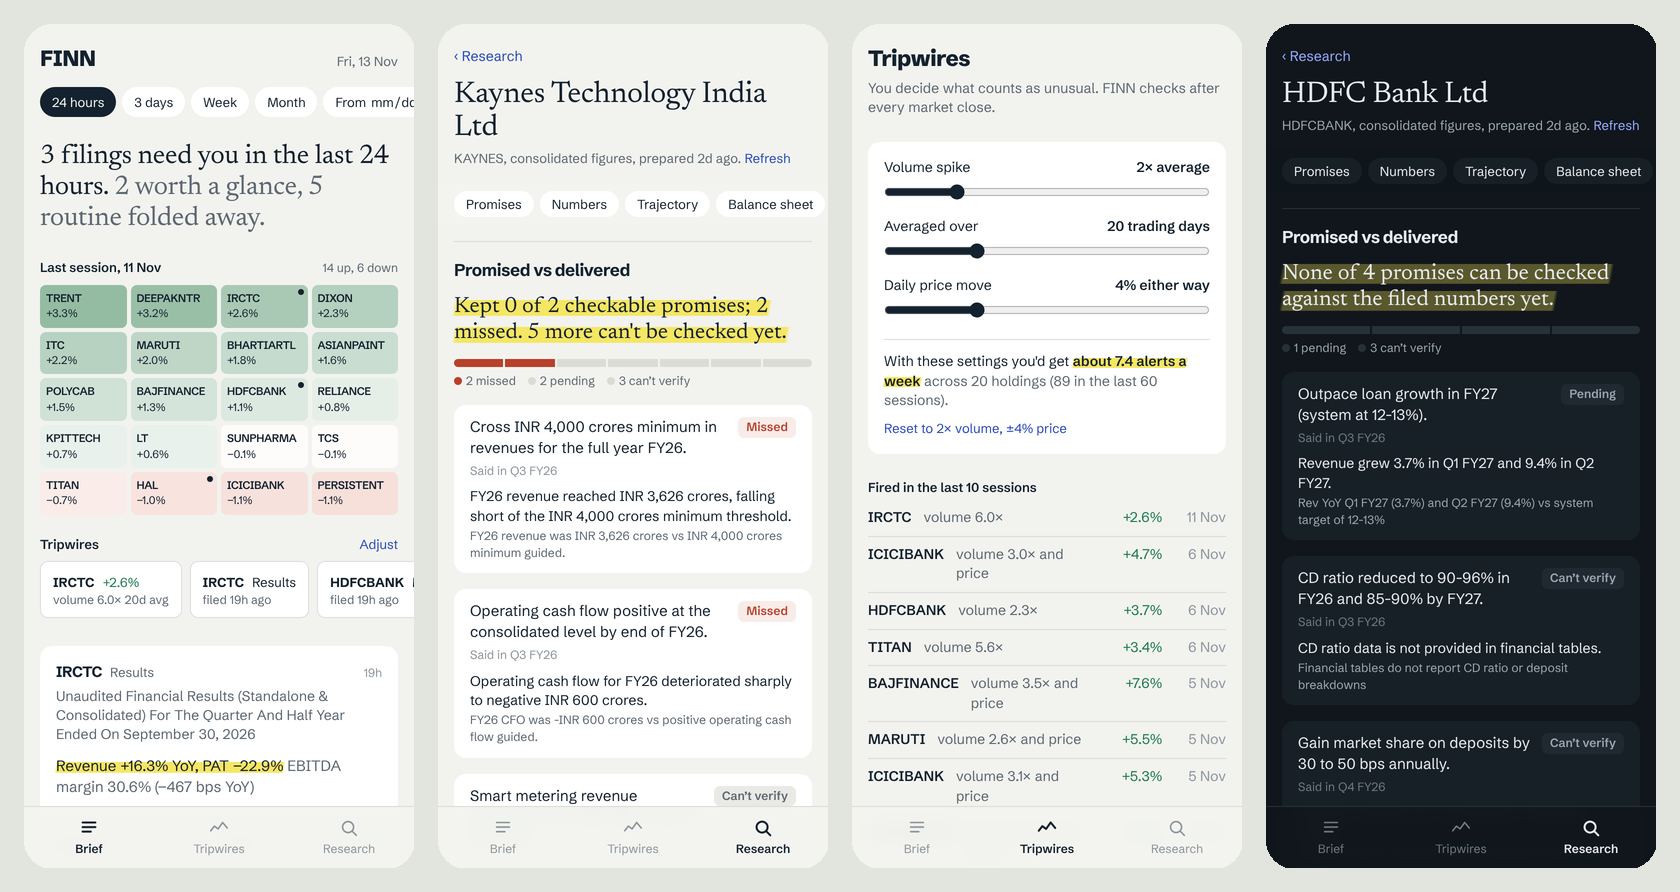
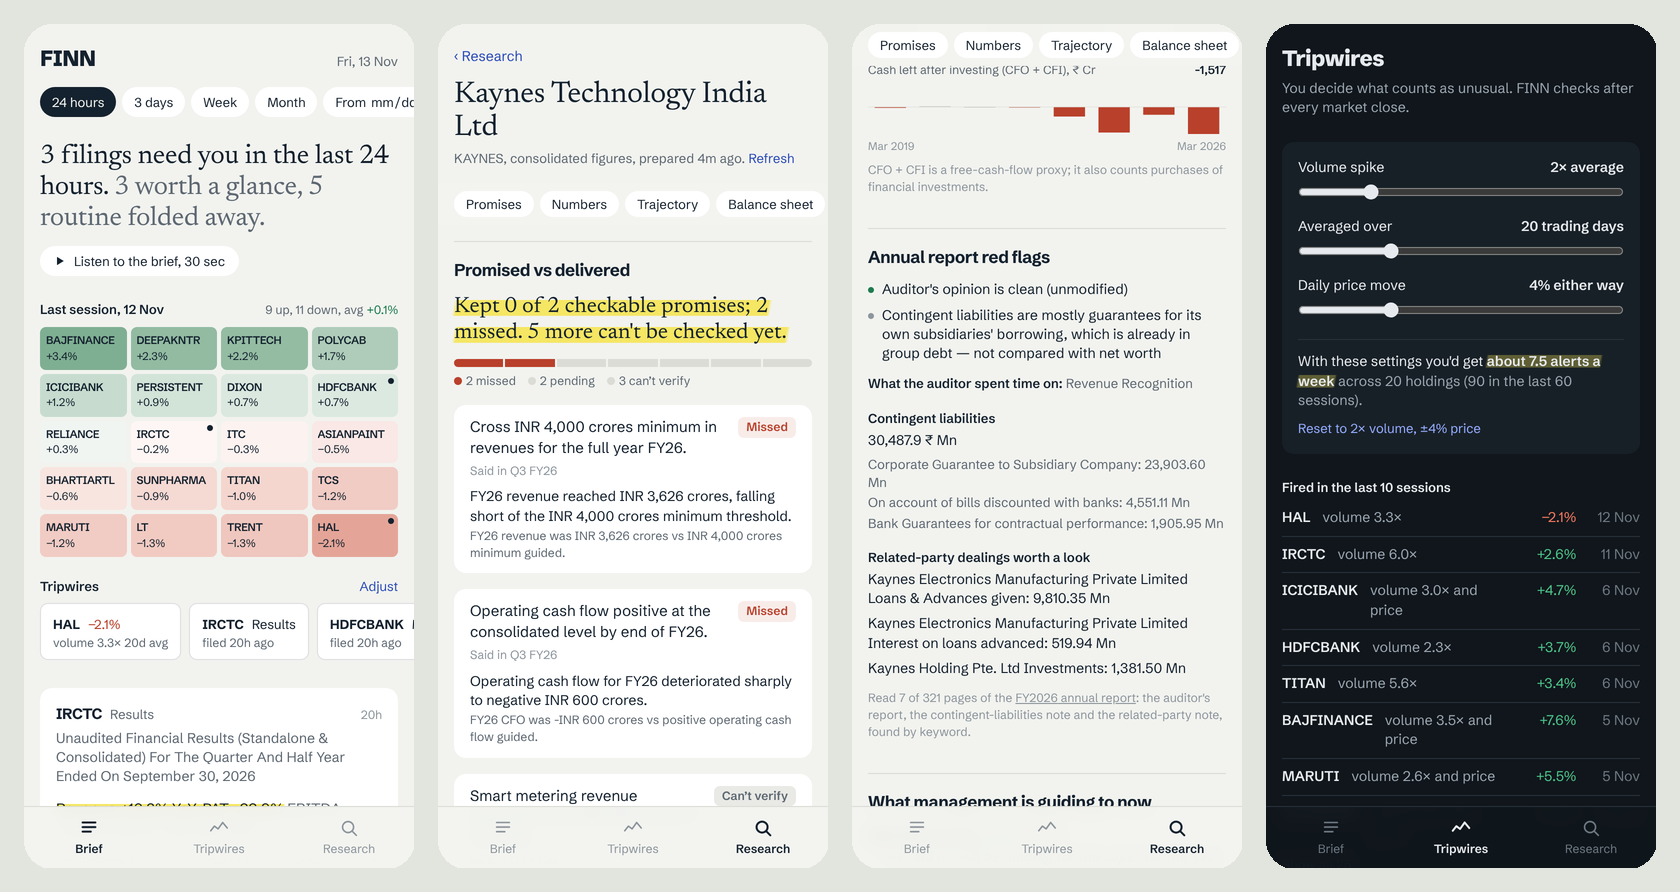
Prices: merge into stored history (Yahoo blanks recent sessions); docs, QR, screenshots
- refreshes never drop a bar already saved; stale holdings are skipped by the
  pulse and tripwires and reported by the run; two lost 12 Nov bars restored
- README: QR code, annual-report and Listen features, new screenshots
- DECISIONS and BUILD_HISTORY updated for 13 Nov

Claude-Session: https://claude.ai/code/session_01DtSqmdncMNEDbTmuAnibWR

diff --git a/scripts/pipeline.ts b/scripts/pipeline.ts
@@ -17,7 +17,7 @@ import { setCacheStore, cache } from "../src/lib/cache";
 import { llmAvailable, newUsage, MODELS } from "../src/lib/llm";
 import { mapLimit, sleep } from "../src/lib/http";
 import { pdfText } from "../src/lib/pdf";
-import { fetchEod } from "../src/lib/push/prices";
+import { fetchEod, mergeSeries } from "../src/lib/push/prices";
 import { attachmentUrls, fetchAnnouncements, istToIso, type BseAnnouncement } from "../src/lib/push/bse";
 import { llmClassify, ruleClassify, scorePriority, tierOf } from "../src/lib/push/classify";
 import { cardFromScreener, extractResults, reconcile } from "../src/lib/push/results";
@@ -57,13 +57,24 @@ async function main() {
 
   // 1. Prices
   const prices: Prices = { generatedAt: new Date().toISOString(), series: {} };
+  let stored: Prices | null = null;
+  try {
+    stored = JSON.parse(fs.readFileSync(path.join(OUT, "prices.json"), "utf8"));
+    if (stored?.sample) stored = null;
+  } catch {}
   await mapLimit(PORTFOLIO, 4, async (p) => {
+    const kept = stored?.series[p.symbol];
     try {
-      prices.series[p.symbol] = await fetchEod(p.symbol);
+      prices.series[p.symbol] = mergeSeries(kept, await fetchEod(p.symbol));
     } catch (e) {
+      if (kept) prices.series[p.symbol] = kept; // keep yesterday's history rather than lose the holding
       errors.push(`prices ${p.symbol}: ${(e as Error).message}`);
     }
   });
+  // a holding whose latest bar lags the rest: say so (the app ignores it for "last session")
+  const latest = Object.values(prices.series).map((x) => x.d[x.d.length - 1]).sort().pop();
+  for (const [sym, ser] of Object.entries(prices.series))
+    if (ser.d[ser.d.length - 1] !== latest) errors.push(`prices ${sym}: latest bar is ${ser.d[ser.d.length - 1]}, others have ${latest}`);
   log(`prices: ${Object.keys(prices.series).length}/${PORTFOLIO.length}`);
   if (Object.keys(prices.series).length) fs.writeFileSync(path.join(OUT, "prices.json"), JSON.stringify(prices));
 

diff --git a/src/app/research/[symbol]/page.tsx b/src/app/research/[symbol]/page.tsx
@@ -440,7 +440,16 @@ function Progress({ stages }: { stages: Stage[] }) {
   );
 }
 
-function AnnualBlock({ a }: { a: AnnualScan }) {
+/** Many annual-report PDFs encode the rupee sign as a backtick. */
+const rupee = (t: string) => t.replace(/`\s*\/?\s*/g, "₹ ").replace(/\bRs\.?\s*/g, "₹ ").replace(/₹\s+₹/g, "₹").replace(/\s+/g, " ").trim();
+
+function AnnualBlock({ a: raw }: { a: AnnualScan }) {
+  const a: AnnualScan = {
+    ...raw,
+    flags: raw.flags.map((f) => ({ ...f, text: rupee(f.text) })),
+    relatedParty: raw.relatedParty.map(rupee),
+    contingent: raw.contingent && { ...raw.contingent, printed: rupee(raw.contingent.printed), largest: raw.contingent.largest.map(rupee) },
+  };
   return (
     <div>
       <Flags flags={a.flags} />
@@ -451,7 +460,7 @@ function AnnualBlock({ a }: { a: AnnualScan }) {
       )}
       {a.contingent && (
         <div className="mt-4">
-          <h3 className="text-[13px] font-semibold">Contingent liabilities{a.contingent.basis !== "unclear" ? `, ${a.contingent.basis}` : ""}</h3>
+          <h3 className="text-[13px] font-semibold">Contingent liabilities{a.contingent.pctNetWorth != null ? `, ${a.contingent.basis}` : ""}</h3>
           <p className="num mt-1 text-[14px]">
             {a.contingent.printed}
             {a.contingent.amountCr != null && a.contingent.pctNetWorth != null && <span className="text-graphite"> (about ₹{a.contingent.amountCr.toLocaleString("en-IN")} Cr)</span>}

diff --git a/tests/sanity.test.ts b/tests/sanity.test.ts
@@ -10,6 +10,7 @@ import { eventDate, eventWhat } from "../src/lib/push/events";
 import { pickPages } from "../src/lib/pull/annual";
 import { briefScript, speakable } from "../src/lib/speak";
 import { parseJsonLoose } from "../src/lib/llm";
+import { mergeSeries } from "../src/lib/push/prices";
 
 test("rules classify common BSE subjects", () => {
   const cases: [string, string][] = [
@@ -155,4 +156,12 @@ test("spoken brief is built from the ranked data", () => {
 test("tolerant JSON parsing keeps URLs intact", () => {
   const raw = '```json\n{\n "a": 1, // the total\n "u": "https://x.in/a",\n "l": ["p", "q",],\n}\n```';
   assert.deepEqual(parseJsonLoose(raw), { a: 1, u: "https://x.in/a", l: ["p", "q"] });
+});
+
+test("price history never loses a stored bar", () => {
+  const stored = { d: ["2026-11-06", "2026-11-09", "2026-11-11", "2026-11-12"], c: [1, 2, 3, 4], v: [10, 20, 30, 40] };
+  const fresh = { d: ["2026-11-09", "2026-11-11", "2026-11-13"], c: [2.5, 3, 5], v: [21, 30, 50] }; // 12 Nov came back blank
+  const m = mergeSeries(stored, fresh);
+  assert.deepEqual(m.d, ["2026-11-09", "2026-11-11", "2026-11-12", "2026-11-13"]); // gap filled, older-than-range dropped
+  assert.deepEqual(m.c, [2.5, 3, 4, 5]); // fresh wins where both exist
 });

diff --git a/src/lib/push/prices.ts b/src/lib/push/prices.ts
@@ -51,3 +51,20 @@ export async function fetchEod(symbol: string, range = "6mo"): Promise<PriceSeri
   }
   throw lastErr instanceof Error ? lastErr : new Error(String(lastErr));
 }
+
+/**
+ * Yahoo intermittently returns blanks for recent sessions, then fills them in
+ * later. So a refresh never throws away a bar we already stored: fresh data
+ * wins where it exists, stored bars fill the gaps (within the fresh range).
+ */
+export function mergeSeries(stored: PriceSeries | undefined, fresh: PriceSeries): PriceSeries {
+  if (!stored?.d.length) return fresh;
+  if (!fresh.d.length) return stored;
+  const rows = new Map<string, [number, number]>();
+  stored.d.forEach((d, i) => {
+    if (d >= fresh.d[0]) rows.set(d, [stored.c[i], stored.v[i]]);
+  });
+  fresh.d.forEach((d, i) => rows.set(d, [fresh.c[i], fresh.v[i]]));
+  const dates = [...rows.keys()].sort();
+  return { d: dates, c: dates.map((d) => rows.get(d)![0]), v: dates.map((d) => rows.get(d)![1]) };
+}

diff --git a/src/components/Pulse.tsx b/src/components/Pulse.tsx
@@ -14,8 +14,10 @@ export function Pulse({ prices, flagged, muted, sinceMs, sessions }: {
   sessions?: number; // for "24 hours": exactly the last session
 }) {
   const sinceDay = new Date(sinceMs + 5.5 * 3600e3).toISOString().slice(0, 10);
+  const latest = Object.values(prices.series).map((x) => x.d[x.d.length - 1]).sort().pop();
   const rows = Object.entries(prices.series)
-    .filter(([s, ser]) => !muted.includes(s) && ser.c.length >= 2)
+    // a holding whose data lags the others would show a stale move: leave it out
+    .filter(([s, ser]) => !muted.includes(s) && ser.c.length >= 2 && ser.d[ser.d.length - 1] === latest)
     .map(([symbol, ser]) => {
       const n = ser.c.length;
       // Move over the window: from the close before the window's first session to the latest close.

diff --git a/src/lib/alerts.ts b/src/lib/alerts.ts
@@ -31,9 +31,12 @@ export interface PriceTrip {
 
 export function priceTrips(prices: Prices, s: Settings, sessions = 1): PriceTrip[] {
   const out: PriceTrip[] = [];
+  // "Latest session" means the portfolio's latest date: a holding whose data lags is skipped.
+  const latest = Object.values(prices.series).map((x) => x.d[x.d.length - 1]).sort().pop();
   for (const [symbol, ser] of Object.entries(prices.series)) {
     if (s.muted.includes(symbol)) continue;
     const n = ser.c.length;
+    if (sessions === 1 && ser.d[n - 1] !== latest) continue;
     for (let i = Math.max(s.volLookback, 1, n - sessions); i < n; i++) {
       const window = ser.v.slice(i - s.volLookback, i);
       const avg = window.reduce((a, b) => a + b, 0) / (window.length || 1);

diff --git a/DECISIONS.md b/DECISIONS.md
@@ -8,6 +8,10 @@ FINN is deliberately the opposite of a Bloomberg Terminal. Bloomberg shows a tra
 - **Market reaction:** each card shows the move on the first session that could react to the filing.
 - **An events calendar:** the dates inside routine board-meeting notices become a "Coming up" list instead of more paperwork.
 
+**Voice is output only.** The brief has a "Listen" button. The script is built in code from the same ranked items the screen shows, and the phone's own speech engine reads it, so it needs no model and costs nothing. An investor walking in to work wants to hear what changed. They don't want to hold a conversation with their portfolio.
+
+**Push and pull are joined.** A results card links to management's promise record for that company, so "what just happened" sits next to "do these people usually deliver".
+
 I deliberately didn't make chat the main interface. A chat box makes the investor do the work of knowing what to ask. FINN asks the analyst's questions itself (*did they deliver what they promised? does the cash match the profit?*) and the investor taps.
 
 ## Push
@@ -61,6 +65,13 @@ This fits serverless timeouts, lets the UI show progress, and means the numbers 
 
 **Promise vs delivered is the centre of the research view.** The strong model gets guidance items with their verbatim quotes (from the cheap extraction) and a table of delivered numbers computed in code. It must cite a number or quote for every verdict, and use "unverifiable" when the tables can't settle a point (e.g. segment targets). It is told not to use outside knowledge of the company. I read 5 transcripts, not 4, so that promises made 4 quarters ago can be checked against the quarters after them.
 
+**The annual report is scanned, not read.** A 300–700 page report sent whole to a model would cost more than everything else FINN does combined. An analyst doesn't read it cover to cover either; they go to three places first. So FINN:
+- extracts every page's text locally, which is free;
+- picks about 7 pages by keyword: the auditor's opinion, the contingent-liabilities note and the related-party note, preferring consolidated over standalone;
+- sends only those pages to the cheap model in one call, about $0.001 per report.
+
+Code then converts units and computes "% of net worth". It makes that comparison only when the figure and the net worth come from the same statement. It never makes it for a bank, whose contingent liabilities are mostly the notional value of derivative contracts. It never makes it when the list is dominated by guarantees for the company's own subsidiaries, because that borrowing is already in group debt. Kaynes first showed a red "68% of net worth" flag for exactly that reason; it now shows the items with a neutral explanation.
+
 **It generalises.** Nothing is tied to the demo set. Any NSE symbol that screener.in covers works:
 - consolidated figures, falling back to standalone;
 - banks detected automatically and handled differently;
@@ -89,13 +100,17 @@ The first live runs found problems that the sample data couldn't. Each fix is in
 | Bank research said "OPM is −6%". screener's bank "financing margin" isn't an operating margin. | For lenders the margin column and its flags are dropped. Verdicts that rely only on management's own later claim are marked "unverifiable", labelled "Per management". |
 | The research job and the hourly refresh both wrote the same cache file, and a merge conflict lost a run's output. | Separate cache files. Each job re-applies its outputs on top of the latest main before pushing. |
 | One failed model call threw away a whole research report. | Reports are saved with numbers and transcript extracts even if the judgment step fails, and the UI offers a retry. |
+| The annual-report scan flagged Kaynes's contingent liabilities at 68% of net worth, in red. The largest item was a guarantee to its own subsidiary. | No ratio when the figure and net worth come from different statements, for banks, or when intra-group guarantees dominate. |
+| The cheap model echoed the `//` comments from a prompt's JSON template, and the reply failed to parse. | Comment-free template, and the parser repairs echoed comments and trailing commas. |
+| A refresh during market hours captured a half-finished trading day. | Prices are end-of-day only: today's bar is dropped until after the close. |
+| Yahoo returned blanks for the latest session for two holdings, so their "last session" move was really a two-day move. | Refreshes merge into the stored history and never drop a bar already saved. The pulse and tripwires skip any holding whose data lags the rest, and the run reports it. |
 
 ## What I deliberately left out
 
 - **Real push notifications.** Web Push needs a subscription server and iOS home-screen install. The Tripwires screen shows what *would* have fired; delivery is the obvious next step.
 - **NSE as a filings source.** NSE's API blocks non-browser clients; BSE carries the same filings and is reliable from a cron job.
 - **Chat.** Covered above. A "follow-up question about this company", grounded in the cached transcript extracts, is a natural addition.
-- **Annual-report deep reads.** Contingent liabilities, related-party transactions and auditor qualifications sit in 300-page PDFs. The plumbing (`pdf.ts` plus `annualReports` links) is there. It needs section-targeted chunking to stay cheap.
+- **Reading whole annual reports.** FINN reads about 7 pages of each (see below). Segment notes, management discussion and the full notes to accounts are left for later.
 - **Intraday prices.** The brief asked for end-of-day data.
 
 ## Known limitations
@@ -108,5 +123,5 @@ The first live runs found problems that the sample data couldn't. Each fix is in
 
 1. Push delivery (Web Push / Telegram) with a per-investor schedule ("brief at 8:45, tripwires live").
 2. Learn from "Done": items the investor always dismisses should sink automatically.
-3. Annual-report red-flag scan: contingent liabilities, related-party transactions, auditor remarks, pledge trend.
+3. Deeper annual-report reading: segment notes, year-on-year changes in the red-flag items, and the promoter pledge trend.
 4. A promise ledger that persists across quarters, so management credibility becomes a tracked score per company.

diff --git a/README.md b/README.md
@@ -4,11 +4,14 @@ A mobile-first investing agent for Indian equities, built for the ENAM AI Engine
 
 - **Brief (push):** every exchange filing across a 20-stock portfolio for the window you pick, ranked by materiality. Results arrive as headline numbers (Revenue, EBITDA, PBT, PAT, QoQ and YoY). Management changes arrive with who the incoming person is. Routine paperwork is folded away. Each card shows how the market took the filing, with a 30-day sparkline, and swipes away when handled. A pulse grid tints every holding by its move over the window, and a "Coming up" calendar pulls dates out of board-meeting notices. Dark mode follows the phone.
 - **Tripwires (push):** you set what "unusual" means (volume ×, price move %, filing types). The screen tells you live how many alerts a week that setting would have produced, so you can calibrate noise before it happens.
-- **Research (pull):** any NSE symbol. FINN reads the last five earnings-call transcripts and checks what management promised against what the filed numbers show. Then it gives trajectory, balance sheet, cash quality, current guidance and a bull/bear case. Primary sources only.
+- **Research (pull):** any NSE symbol. FINN reads the last five earnings-call transcripts and checks what management promised against what the filed numbers show. Then it gives trajectory, balance sheet, cash quality, current guidance and a bull/bear case. It also scans the latest annual report for the three things analysts check first: the auditor's opinion, contingent liabilities and related-party dealings. Primary sources only.
+- **Listen:** the brief can be read aloud. The script is built in code from the ranked feed and spoken by the phone's own speech engine, so it costs nothing.
 
-**Try it on a phone:** https://finn-92ls.vercel.app (add to home screen; it installs as an app).
+**Try it on a phone:** https://finn-92ls.vercel.app (add to home screen; it installs as an app). Or scan:
 
-![FINN on a phone: Brief with portfolio pulse, Kaynes promise ledger, Tripwires calibration, HDFC Bank research in dark mode](docs/screens.png)
+<img src="docs/qr.png" alt="QR code for https://finn-92ls.vercel.app" width="132">
+
+![FINN on a phone: the Brief with the Listen button and portfolio pulse, the Kaynes promise ledger, annual-report red flags, and Tripwires in dark mode](docs/screens.png)
 
 ## How it works
 
@@ -32,8 +35,9 @@ GitHub Actions (daily, ~8 am + 4:15 pm IST)              Vercel (Next.js, mobile
 | Research numbers | screener.in tables → `metrics.ts` (pure code) | Every computable number is computed |
 | Guidance | Cheap model, one call per transcript, cached forever per URL | A transcript never changes |
 | Promise vs delivered, bull/bear | **One** strong-model call over compact extracted facts | The only step that needs reasoning |
+| Annual report | Every page's text is extracted locally; ~7 pages are picked by keyword; one cheap call. "% of net worth" in code | A 500-page PDF costs about $0.001 instead of dollars |
 
-Measured costs: a feed refresh is mostly cache hits (often zero new model calls). A fresh research report is 5 small-model calls plus 1 large-model call, about $0.01–0.015 (~₹1) at list price, and ₹0 on Gemini's free tier. Every number on screen is cross-checked or computed in code; see [DECISIONS.md](DECISIONS.md#what-real-data-broke-and-what-changed).
+Measured costs: a feed refresh is mostly cache hits (often zero new model calls). A fresh research report is 6 small-model calls plus 1 large-model call, about $0.01–0.015 (~₹1) at list price, and ₹0 on Gemini's free tier. Every number on screen is cross-checked or computed in code; see [DECISIONS.md](DECISIONS.md#what-real-data-broke-and-what-changed).
 
 ## Run it
 
@@ -57,7 +61,8 @@ npm run check                    # verify portfolio BSE codes / Yahoo symbols
 
 ```
 src/lib/push/     prices, BSE filings, classifier + scoring, results extraction, people, summaries
-src/lib/pull/     screener parser, deterministic metrics & flags, transcript guidance, analysis
+src/lib/pull/     screener parser, deterministic metrics & flags, transcript guidance, analysis, annual-report scan
+src/lib/speak.ts  the spoken brief (script built in code, no model)
 src/lib/llm.ts    two-tier model router (cheap/strong), caching, cost accounting; Gemini or any OpenAI-compatible API
 src/lib/alerts.ts tripwire logic (pure; also powers the live "alerts per week" calibration)
 src/app/          Brief (/), Tripwires, Research + API routes

diff --git a/BUILD_HISTORY.md b/BUILD_HISTORY.md
@@ -245,6 +245,28 @@ Prompts fixed, results re-extracted, docs and this history updated.
 
 **Human:** agreed to move the afternoon run after the close. → refresh at 8 am and **4:15 pm** IST.
 
+### 12:53 — "Check everything, add what makes it unique, check the PDF for anything missing"
+**Claude:** verified the state first: all jobs green, both deploys live, tests passing, feed error-free. Then re-read the brief's deliverables and requirements line by line. Two gaps:
+- **Annual reports.** The brief names them as a research source, and its glossary defines auditor's qualification, contingent liabilities and related-party transactions. FINN read transcripts but never opened an annual report.
+- **Interaction experiments.** The brief invites "chat, voice, a copilot… more than the obvious". FINN had screens only.
+
+**Annual-report red-flag scan** → **`b9ecdb2`**. Every page's text is extracted locally; about 7 pages are picked by keyword; one cheap call reads them. Tested on the five real reports through the Actions job: 7 of 294–678 pages read, about $0.001 each. Reading the output caught three problems:
+- Kaynes showed a red "contingent liabilities are 68% of net worth". The largest item was a guarantee to its own subsidiary, read from the standalone accounts. → prefer consolidated pages; the model reports which statement the figure came from; the ratio is only computed when figure and net worth match (**`b72caab`**).
+- The model then labelled the same figure "consolidated". → code no longer trusts the label alone: when guarantees for own subsidiaries dominate, no ratio is claimed (**`872d160`**).
+- One reply failed to parse because the model echoed the `//` comments from the prompt's template. → comment-free template and a tolerant parser, with a test (**`8d4e183`**).
+
+HDFC Bank's ₹34.8 lakh crore of contingent liabilities now carries a note that for a bank this is mostly derivative notional.
+
+**Spoken brief** → **`b72caab`**. A "Listen" button reads the brief aloud. The script is built in code from the ranked feed and spoken by the device's speech engine: no model, no cost. Results cards also link to management's promise record.
+
+Claude had removed an unused field from the judgment prompt earlier in the day. It restored the original wording, so the five audited reports keep their cached verdicts instead of being re-judged two days before the deadline.
+
+**A data bug found during the visual pass** → the "24 hours" pulse header read "11 Nov to 12 Nov". Sun Pharma and Maruti had lost their 12 Nov bar: Yahoo intermittently returns blanks for the most recent session. Refreshes now merge into the stored history and never drop a saved bar; the pulse and tripwires skip a holding whose data lags; the two bars were restored from an earlier run. Test added.
+
+Final pass: every screen checked at 360 px in light and dark mode, with no overflow and no console errors.
+
+Also: a QR code in the README. Setting the repo's description and website link was blocked from the workspace, so that was left for Atul.
+
 ---
 
 ## How the work was split
